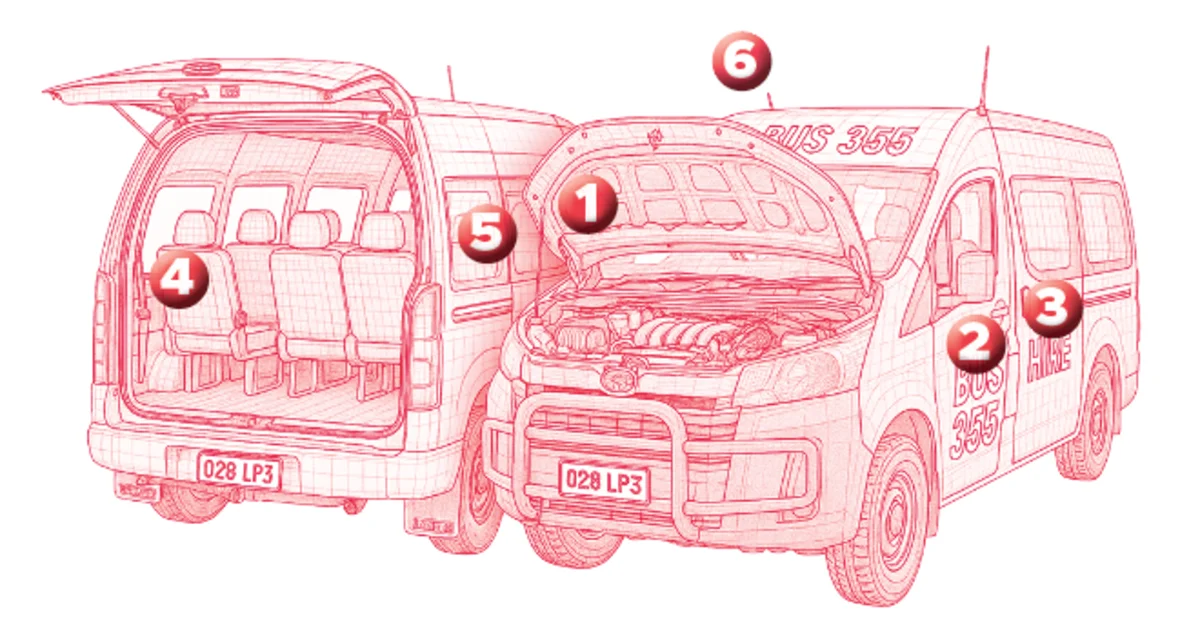
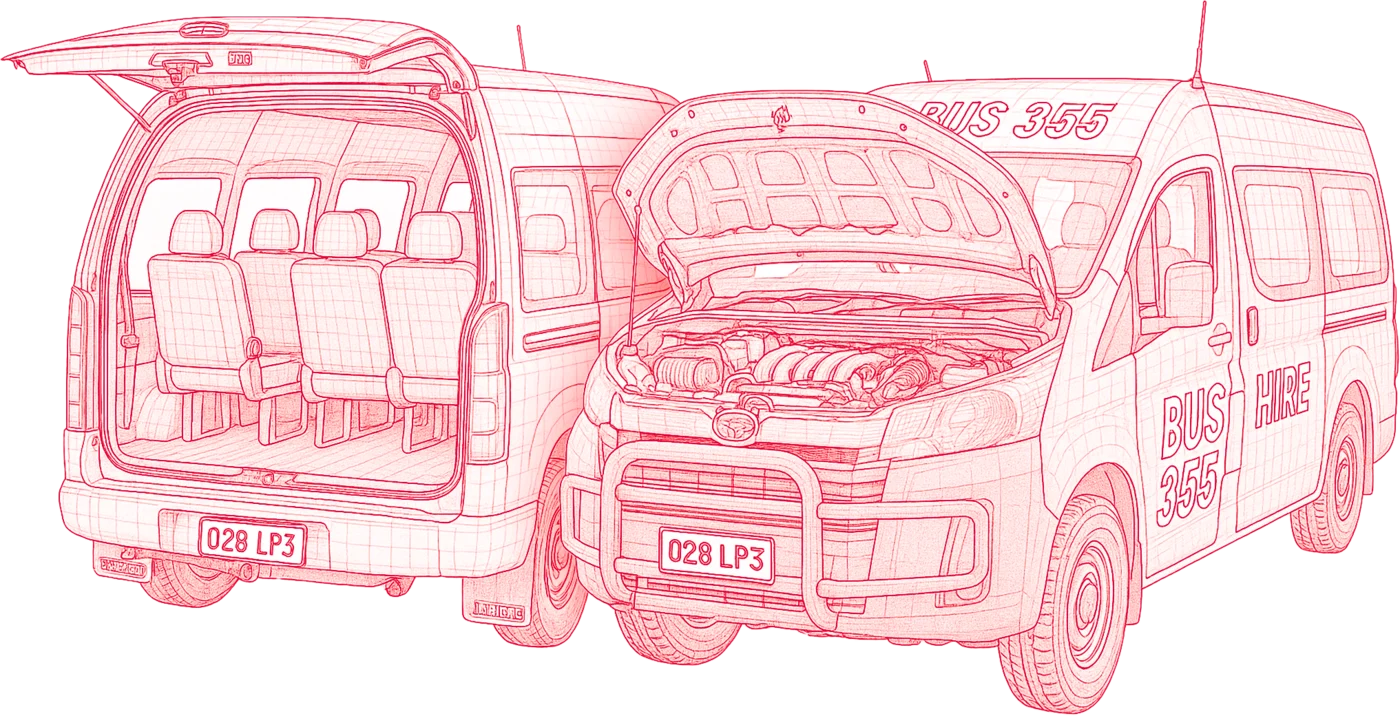
bus4x4 new images; kinaya dark-mode alt; packer no page-hover zoom
- Bus4x4: use the updated Technical_ artwork (technical.webp) and the Tyre Wheel
  (wheel.webp); converted to webp, sources removed.
- KinAya final identity: the lightest-pink mark is a dark-mode logo, so show it
  on a dark card with a small moon icon.
- Packer PDF thumbnail: remove the page-hover zoom.

diff --git a/components/KinayaShowcase.tsx b/components/KinayaShowcase.tsx
@@ -49,10 +49,19 @@ const PALETTE = [
 
 const FINAL_GRADIENT = "/images/kinaya/Final%20Logos/Logo%20Gradient.svg";
 const FINAL_ALTERNATES = [
-  "/images/kinaya/Final%20Logos/Logo%20Pink.svg",
-  "/images/kinaya/Final%20Logos/Logo%20Grey.svg",
-  "/images/kinaya/Final%20Logos/Logo%20Lightest%20Pink.svg",
+  { src: "/images/kinaya/Final%20Logos/Logo%20Pink.svg" },
+  { src: "/images/kinaya/Final%20Logos/Logo%20Grey.svg" },
+  // Lightest pink is a dark-mode mark — show it on a dark card.
+  { src: "/images/kinaya/Final%20Logos/Logo%20Lightest%20Pink.svg", dark: true },
 ];
+
+function MoonIcon() {
+  return (
+    <svg className="kinaya-alt-moon" width="14" height="14" viewBox="0 0 16 16" fill="none" aria-hidden="true">
+      <path d="M13.5 9.5A5.5 5.5 0 0 1 6.5 2.5a5.5 5.5 0 1 0 7 7Z" fill="currentColor" />
+    </svg>
+  );
+}
 
 
 export default function KinayaShowcase() {
@@ -98,9 +107,12 @@ export default function KinayaShowcase() {
             <img src={FINAL_GRADIENT} alt="KinAya logo, gradient" />
           </div>
           <div className="kinaya-final-alts">
-            {FINAL_ALTERNATES.map((src) => (
-              // eslint-disable-next-line @next/next/no-img-element
-              <img key={src} src={src} alt="" aria-hidden="true" />
+            {FINAL_ALTERNATES.map((a) => (
+              <figure key={a.src} className={`kinaya-alt${a.dark ? " kinaya-alt-dark" : ""}`}>
+                {/* eslint-disable-next-line @next/next/no-img-element */}
+                <img src={a.src} alt="" aria-hidden="true" />
+                {a.dark && <MoonIcon />}
+              </figure>
             ))}
           </div>
         </div>

diff --git a/app/globals.css b/app/globals.css
@@ -797,8 +797,6 @@
     filter: drop-shadow(0 6px 18px rgba(20, 20, 20, 0.12));
   }
   .pdf-page[data-active="true"] { transform: scale(1); }
-  /* Zoom only when the cursor is over the page itself. */
-  .pdf-page[data-active="true"]:hover { transform: scale(1.05); }
 
   /* PDF viewer bottom controls — thin pill bars. */
   .pdf-controls {
@@ -1281,15 +1279,26 @@
     max-width: 900px;
     align-items: stretch;
   }
-  .kinaya-final-alts img {
-    width: 100%;
+  .kinaya-alt {
+    position: relative;
+    margin: 0;
     height: clamp(90px, 12vw, 150px);
-    object-fit: contain;
     background: white;
     border-radius: 14px;
     box-shadow: var(--elev-1);
     padding: clamp(1rem, 3vw, 2rem);
-    box-sizing: border-box;
+    display: flex;
+    align-items: center;
+    justify-content: center;
+  }
+  .kinaya-alt img { max-width: 100%; max-height: 100%; width: auto; height: auto; object-fit: contain; }
+  /* Dark-mode mark on a dark card. */
+  .kinaya-alt-dark { background: #16181d; }
+  .kinaya-alt-moon {
+    position: absolute;
+    top: 10px;
+    right: 10px;
+    color: rgba(255, 255, 255, 0.55);
   }
   @media (max-width: 640px) {
     .kinaya-final-alts { grid-template-columns: 1fr; gap: 1.5rem; }